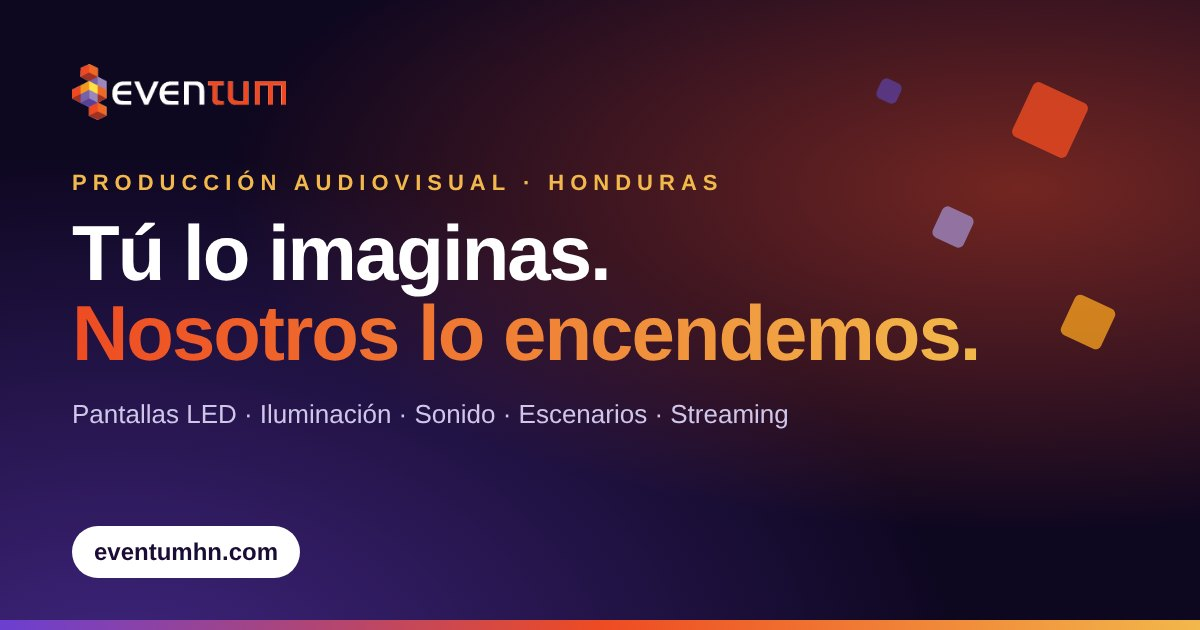
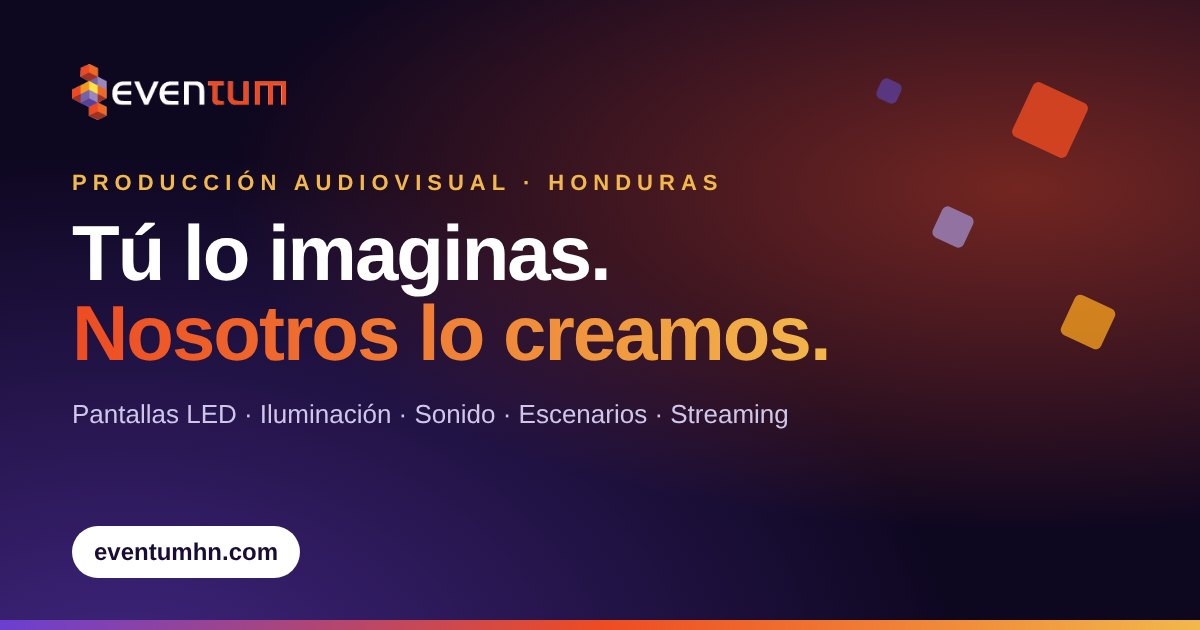
Web: 'Nosotros lo creamos.' en el inicio y en la imagen al compartir
Claude-Session: https://claude.ai/code/session_018LxwSsBdk1RvaK3Jb8VU94

Changed region(s): [[0.4317, 0.4825, 0.8325, 0.573]]

diff --git a/index.html b/index.html
@@ -433,7 +433,7 @@ footer{border-top:1px solid var(--line);padding:70px 0 30px;color:var(--muted);f
     <h1>
       <span class="l"><span>Tú lo imaginas.</span></span>
       <span class="l"><span class="grad">Nosotros</span></span>
-      <span class="l"><span>lo encendemos.</span></span>
+      <span class="l"><span>lo creamos.</span></span>
     </h1>
     <div class="hero-bottom">
       <p>Más de una década convirtiendo ideas en experiencias inolvidables: pantallas LED, iluminación, sonido, escenarios y producción completa para marcas que no aceptan menos que perfecto.</p>
